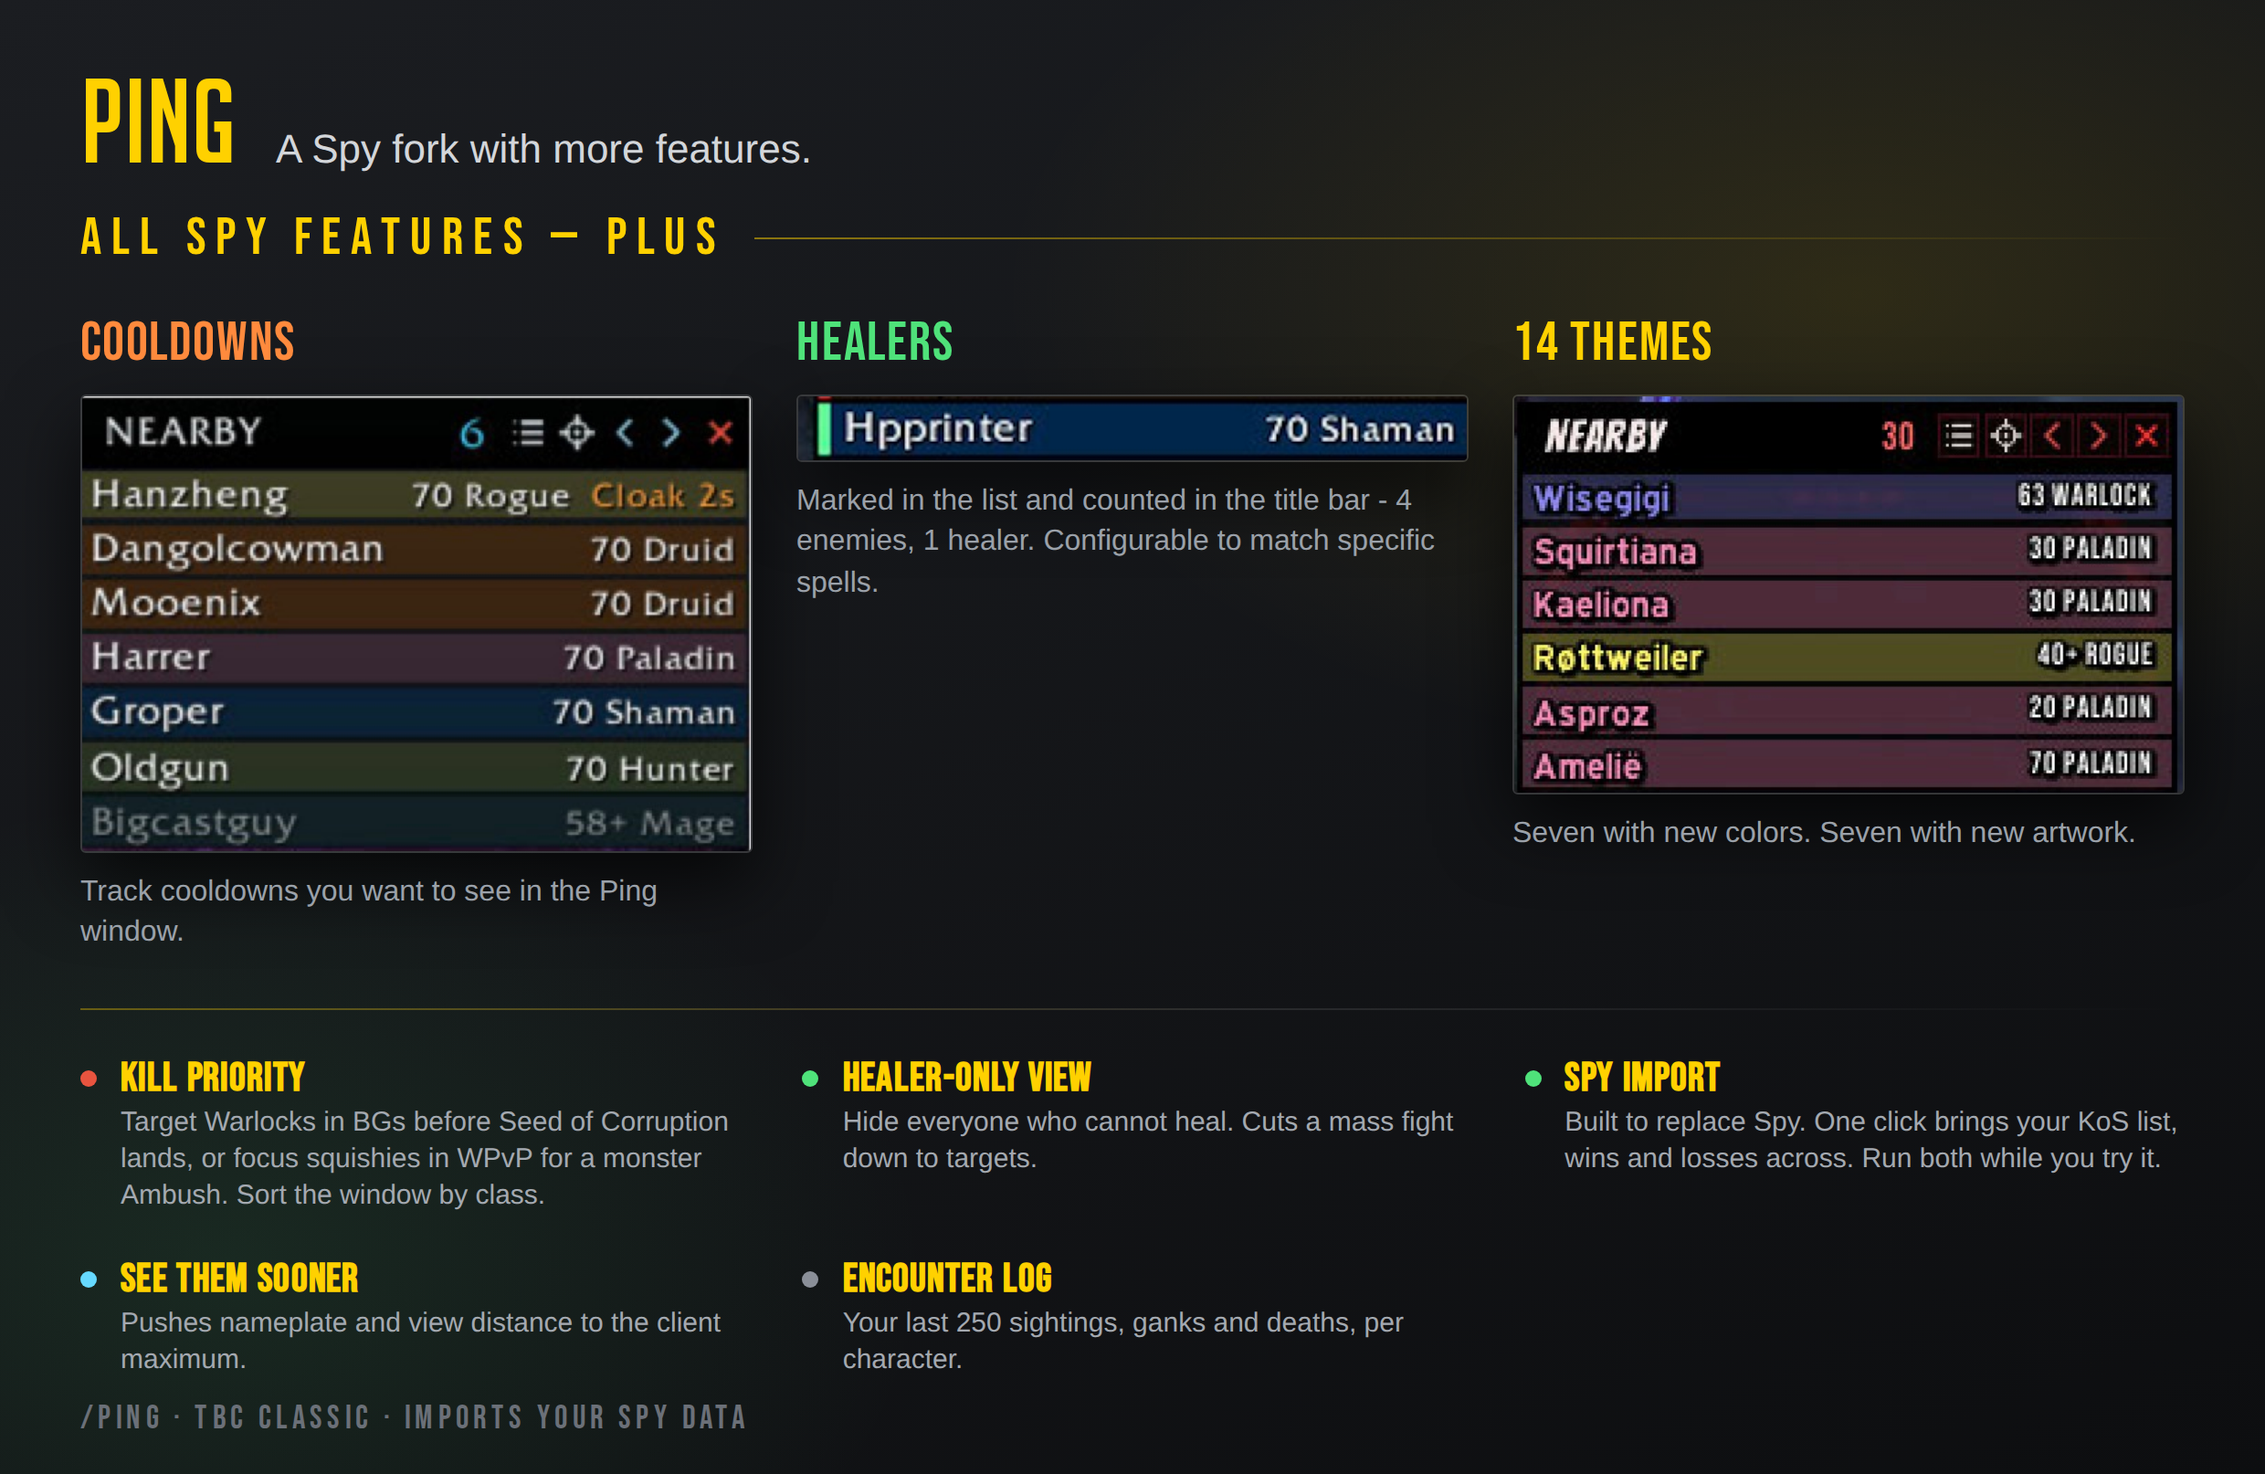
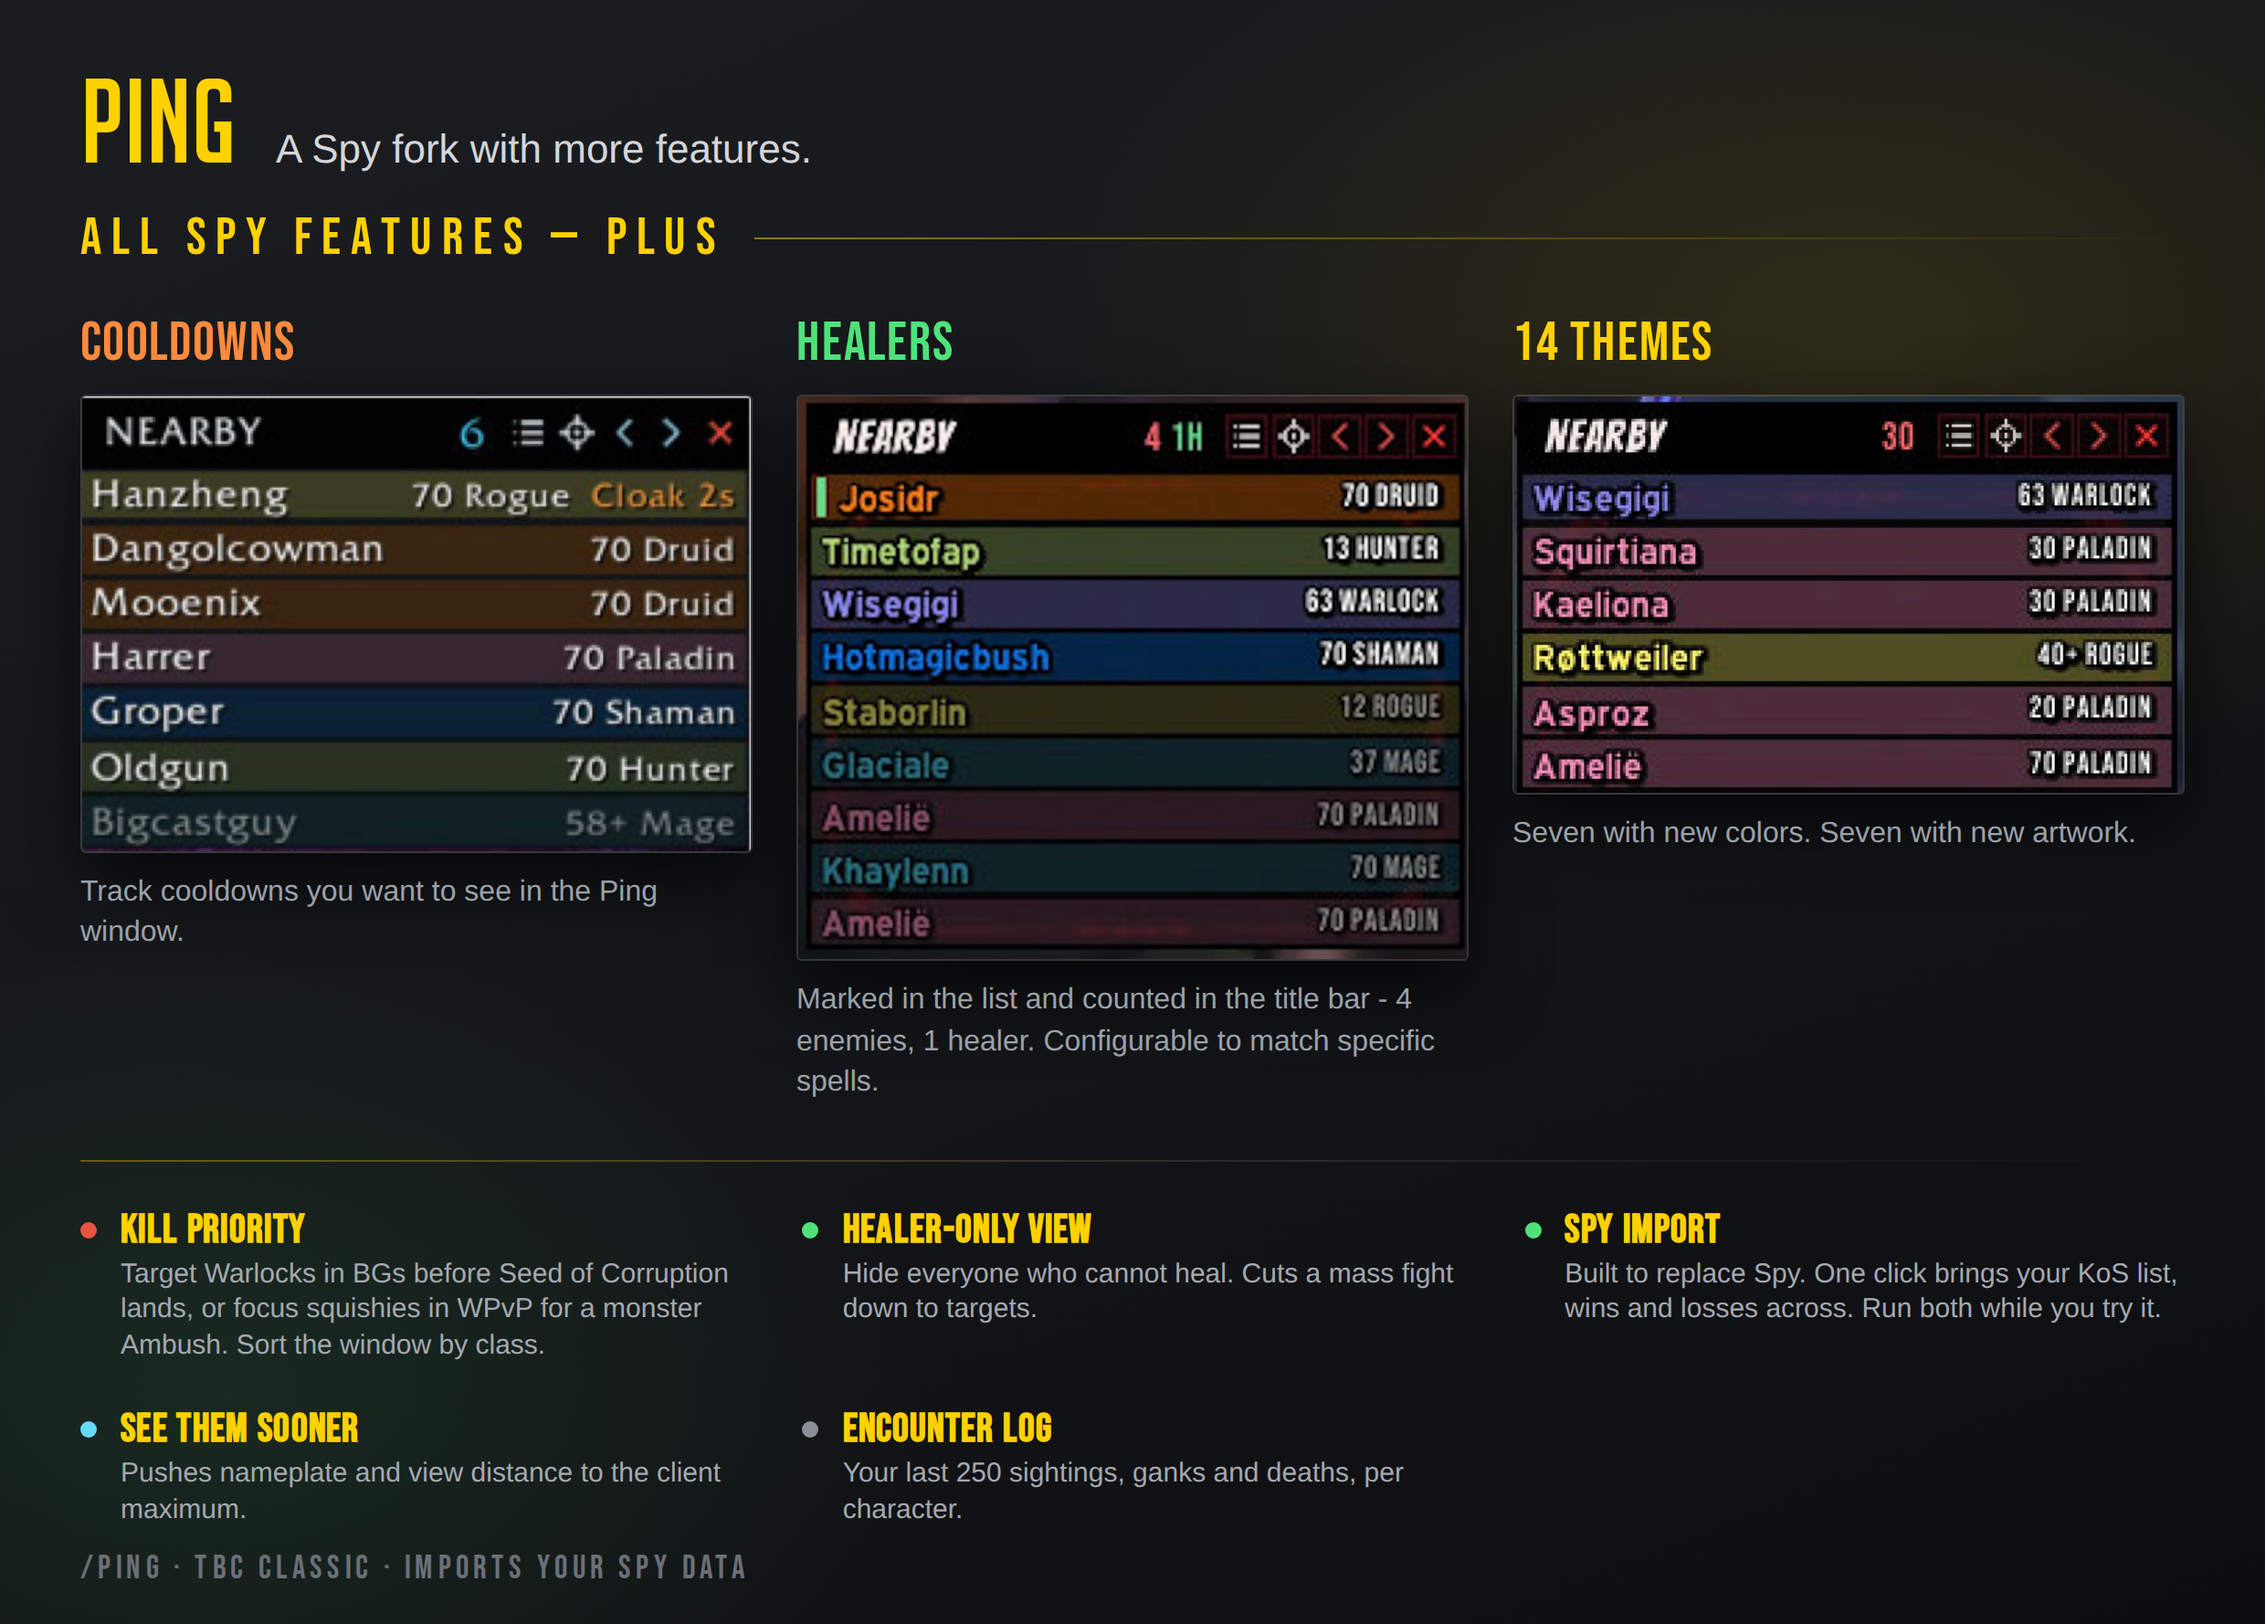
Use the full healer window in the middle column
Replaces the single-row crop with a real window: the green healer edge on
Josidr, the 4 1H count in the title bar, and a full list. Balances the three
columns without needing filler.

Claude-Session: https://claude.ai/code/session_01EnEZhdNmA9Xqsfk9SGbPYL

diff --git a/promo/poster-template.html b/promo/poster-template.html
@@ -119,7 +119,7 @@ body{background:#0a0a0b;font-family:-apple-system,"Segoe UI",Roboto,sans-serif}
     </div>
     <div class="col">
       <div class="cap b">{{COL2_TITLE}}</div>
-      <img class="shot" src="shots/row-healer.png" width="368">
+      <img class="shot" src="shots/win-healers.png" width="368">
       <div class="sub">{{COL2_TEXT}}</div>
       <div class="cap c" style="margin-top:22px">{{COL2B_TITLE}}</div>
       <div class="sub" style="margin-top:4px">{{COL2B_TEXT}}</div>
